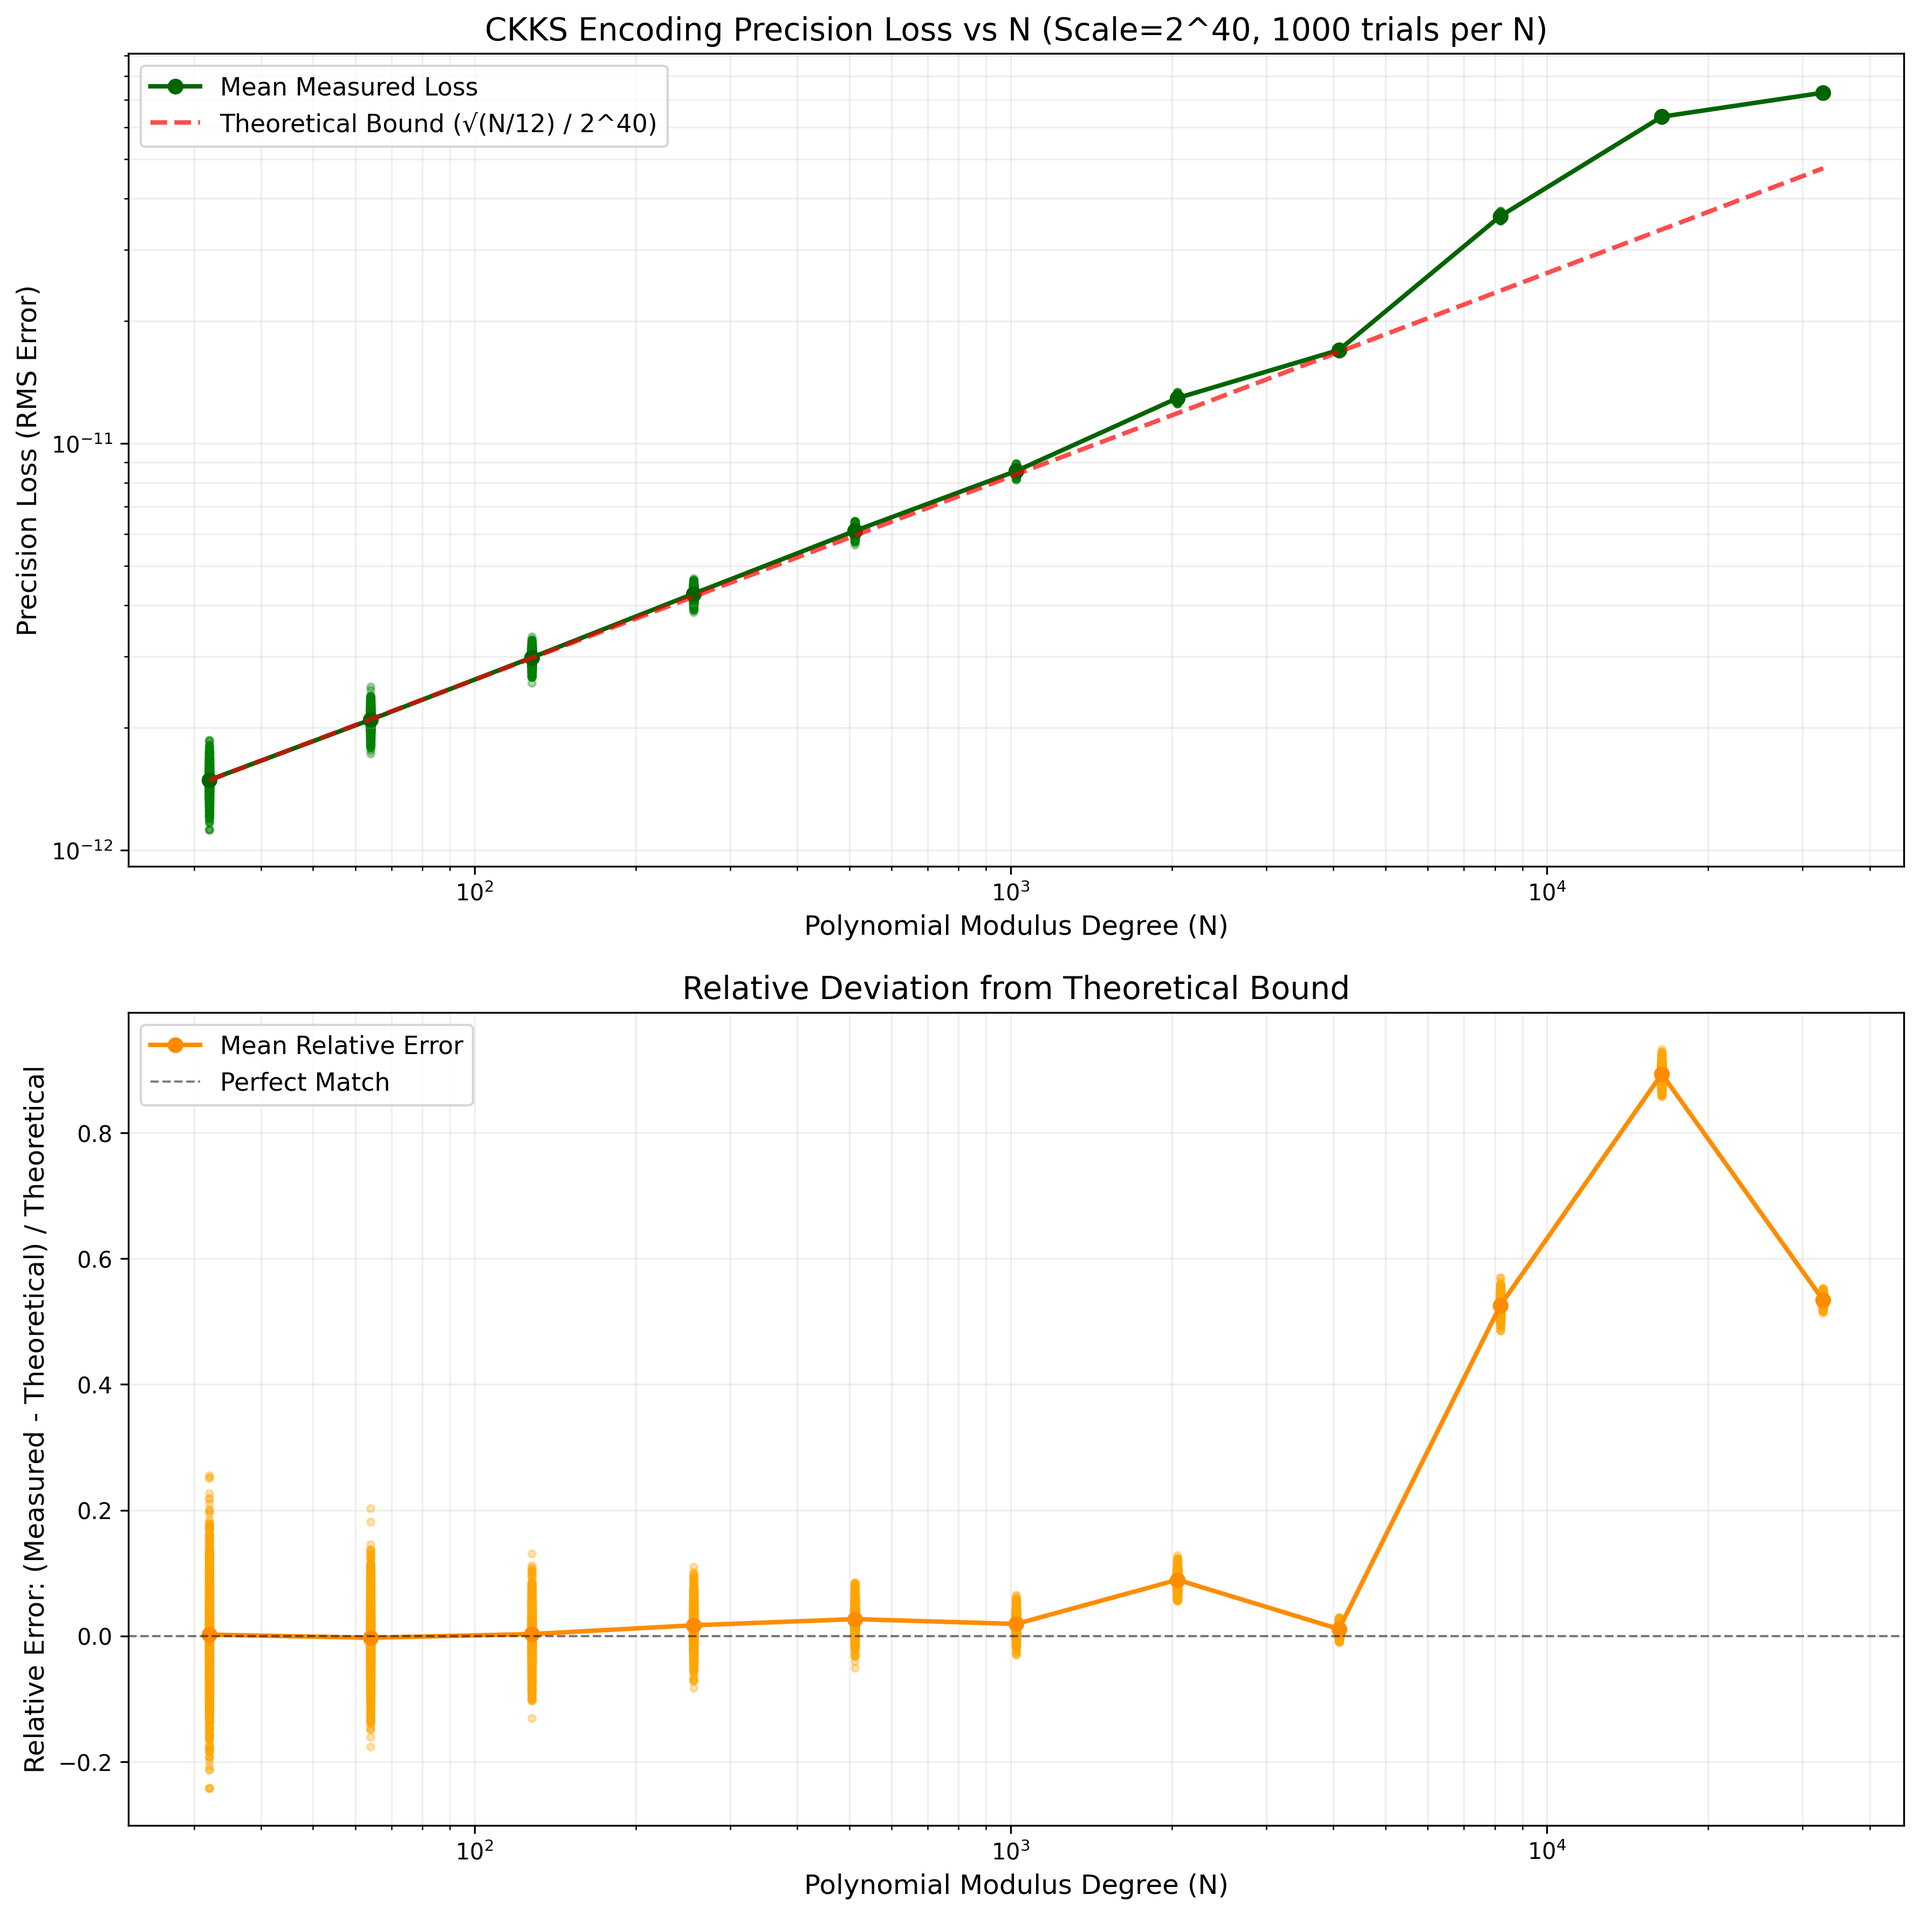
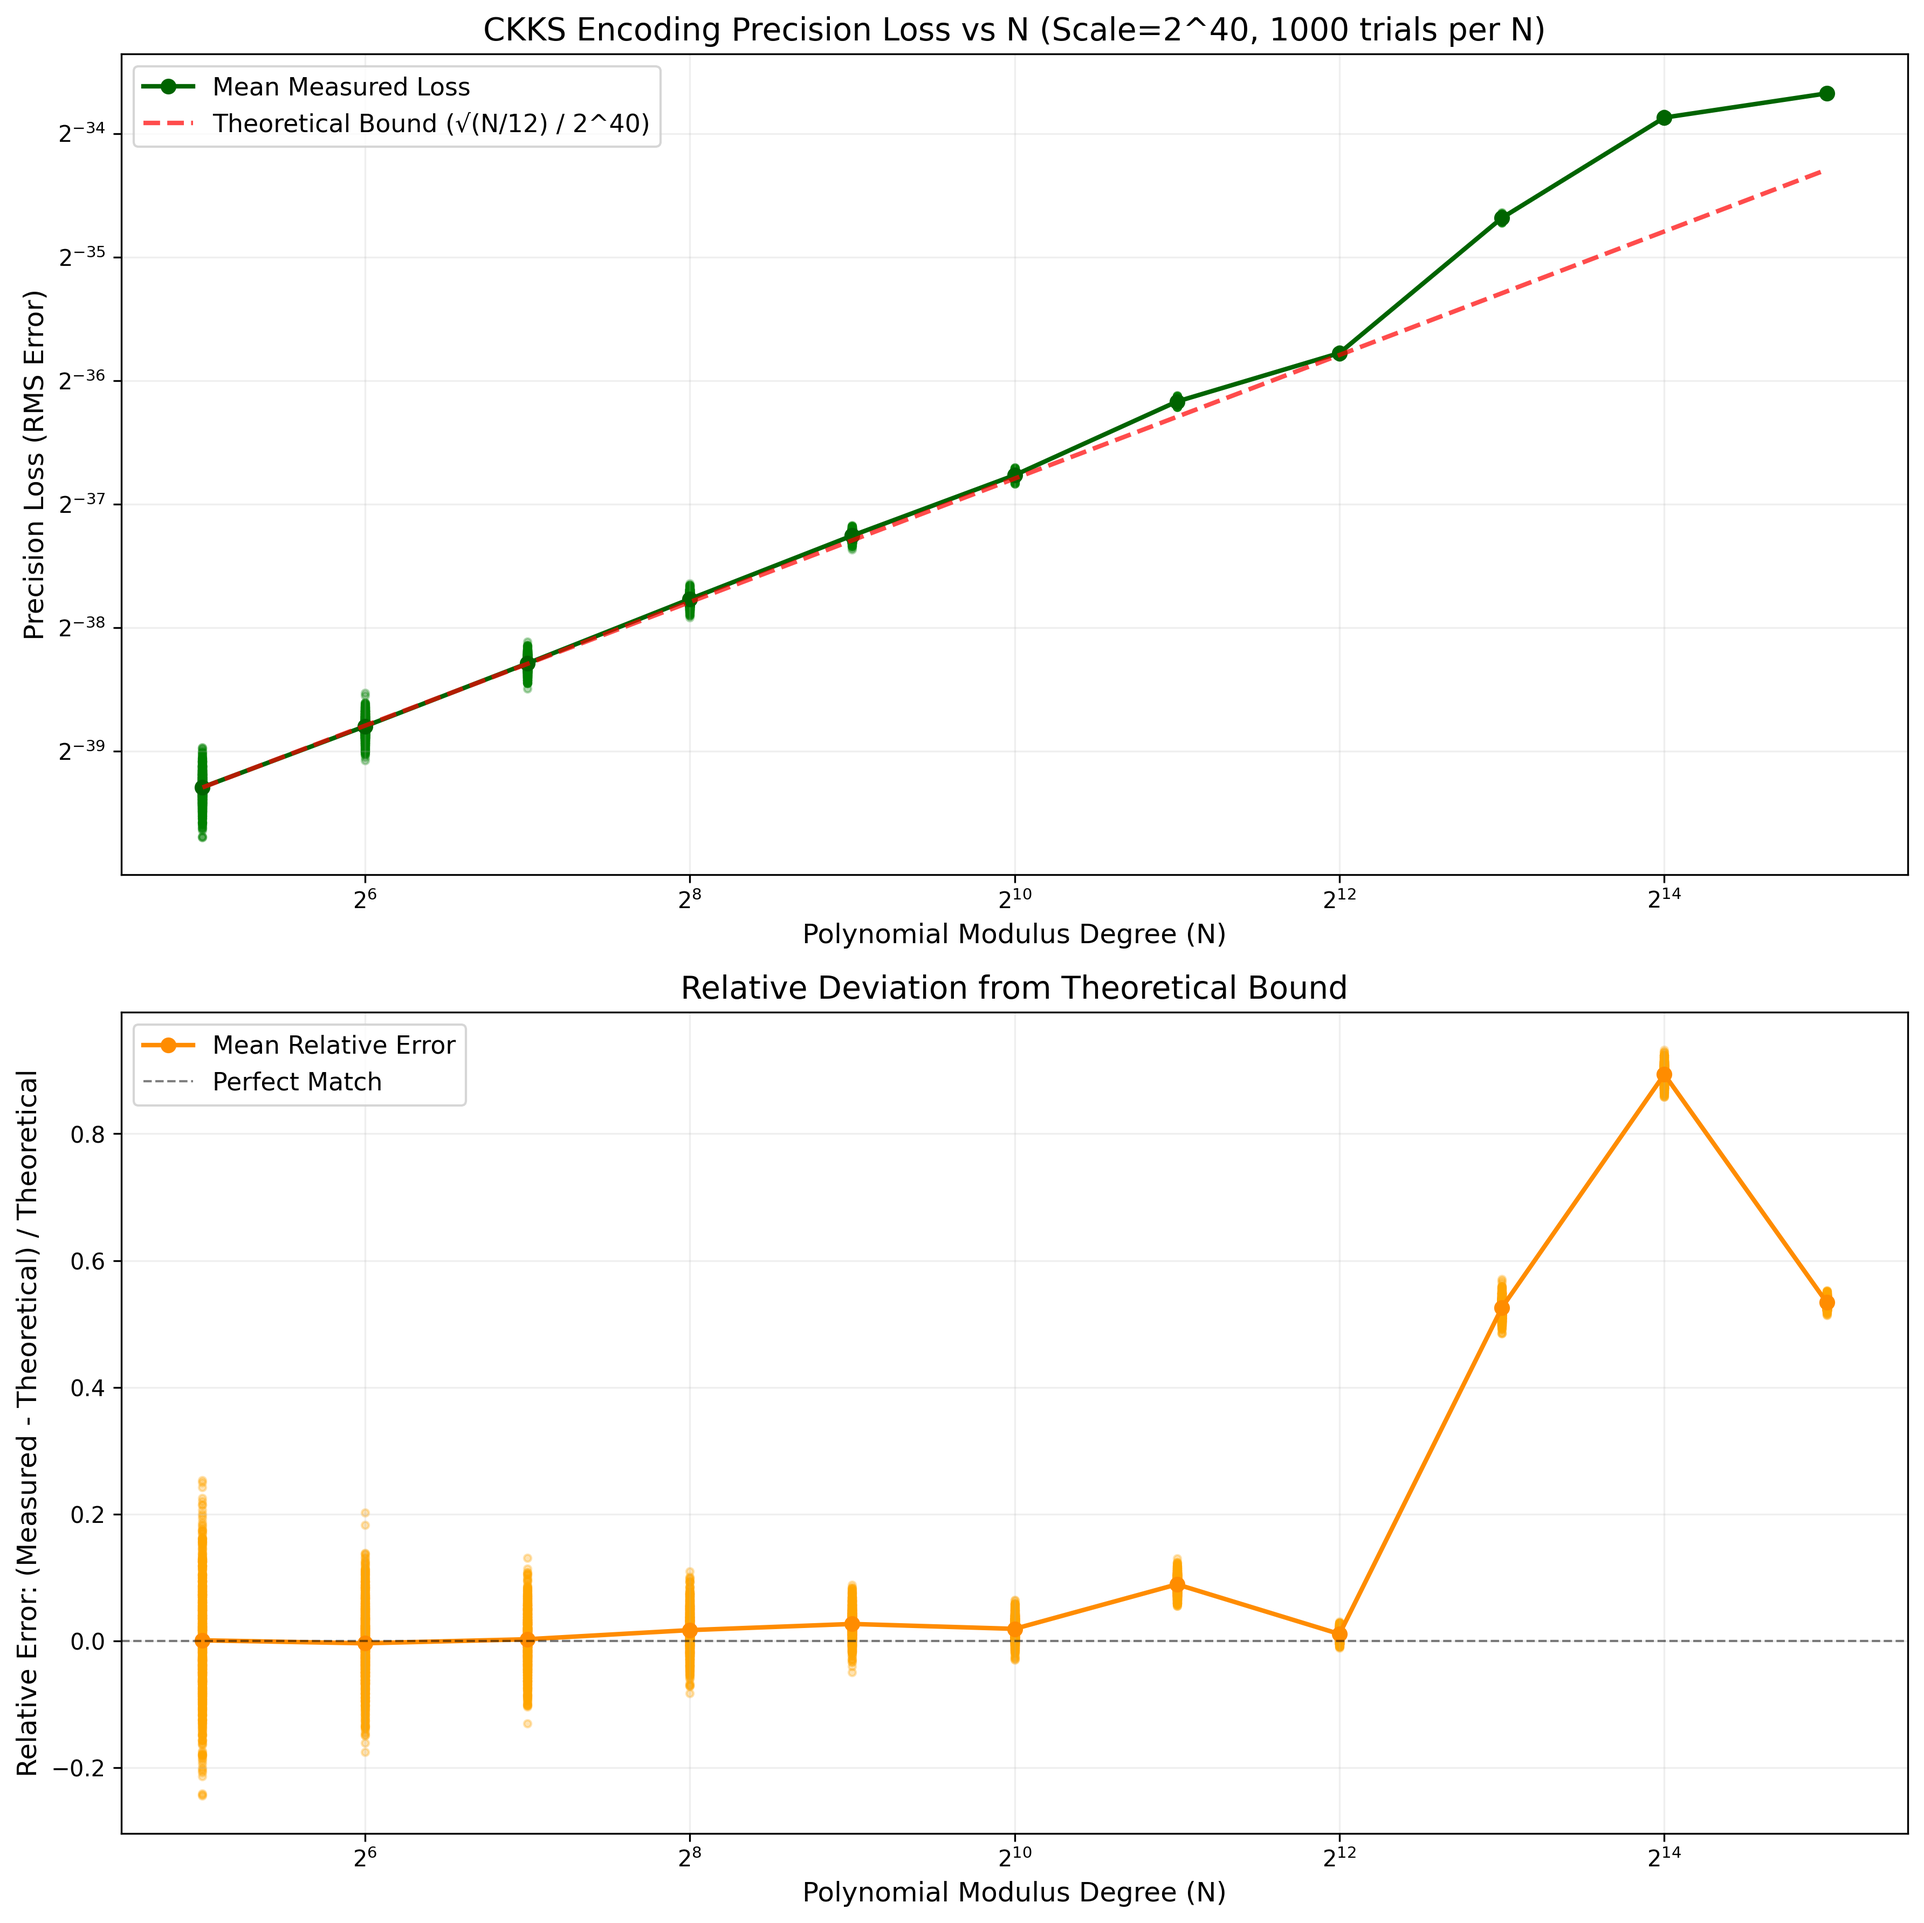
use base2 for loglog axes in plots

diff --git a/plot_precision_loss.py b/plot_precision_loss.py
@@ -71,12 +71,14 @@ def main():
     _, (ax1, ax2) = plt.subplots(2, 1, figsize=(12, 12))
 
     # First plot: Absolute precision loss compared to theoretical loss
+    ax1.set_xscale("log", base=2)
+    ax1.set_yscale("log", base=2)
     # Plot all individual measurements as scatter points
     for scale, losses in zip(scaling_factors, all_precision_losses):
         ax1.scatter([scale] * len(losses), losses, alpha=0.3, s=10, color="blue")
 
     # Plot mean values
-    ax1.loglog(
+    ax1.plot(
         scaling_factors,
         mean_precision_losses,
         "o-",
@@ -87,7 +89,7 @@ def main():
     )
 
     # Plot theoretical bound
-    ax1.loglog(
+    ax1.plot(
         scaling_factors,
         theoretical_losses,
         "--",
@@ -107,6 +109,7 @@ def main():
     ax1.legend(fontsize=11)
 
     # Second plot: Relative error (normalized by theoretical)
+    ax2.set_xscale("log", base=2)
     # Calculate relative errors for each trial
     for scale, losses, theoretical in zip(
         scaling_factors, all_precision_losses, theoretical_losses
@@ -125,7 +128,7 @@ def main():
         (mean - theo) / theo
         for mean, theo in zip(mean_precision_losses, theoretical_losses)
     ]
-    ax2.semilogx(
+    ax2.plot(
         scaling_factors,
         mean_relative_errors,
         "o-",
@@ -200,11 +203,13 @@ def main():
     _, (ax3, ax4) = plt.subplots(2, 1, figsize=(12, 12))
 
     # First plot: Absolute precision loss vs N
+    ax3.set_xscale("log", base=2)
+    ax3.set_yscale("log", base=2)
     for N_test, losses in zip(N_values, all_losses_by_N):
         ax3.scatter([N_test] * len(losses), losses, alpha=0.3, s=10, color="green")
 
     # Plot mean values
-    ax3.loglog(
+    ax3.plot(
         N_values,
         mean_losses_by_N,
         "o-",
@@ -215,7 +220,7 @@ def main():
     )
 
     # Plot theoretical bound
-    ax3.loglog(
+    ax3.plot(
         N_values,
         theoretical_losses_by_N,
         "--",
@@ -235,6 +240,7 @@ def main():
     ax3.legend(fontsize=11)
 
     # Second plot: Relative error
+    ax4.set_xscale("log", base=2)
     for N_test, losses, theoretical in zip(
         N_values, all_losses_by_N, theoretical_losses_by_N
     ):
@@ -252,7 +258,7 @@ def main():
         (mean - theo) / theo
         for mean, theo in zip(mean_losses_by_N, theoretical_losses_by_N)
     ]
-    ax4.semilogx(
+    ax4.plot(
         N_values,
         mean_relative_errors_N,
         "o-",
